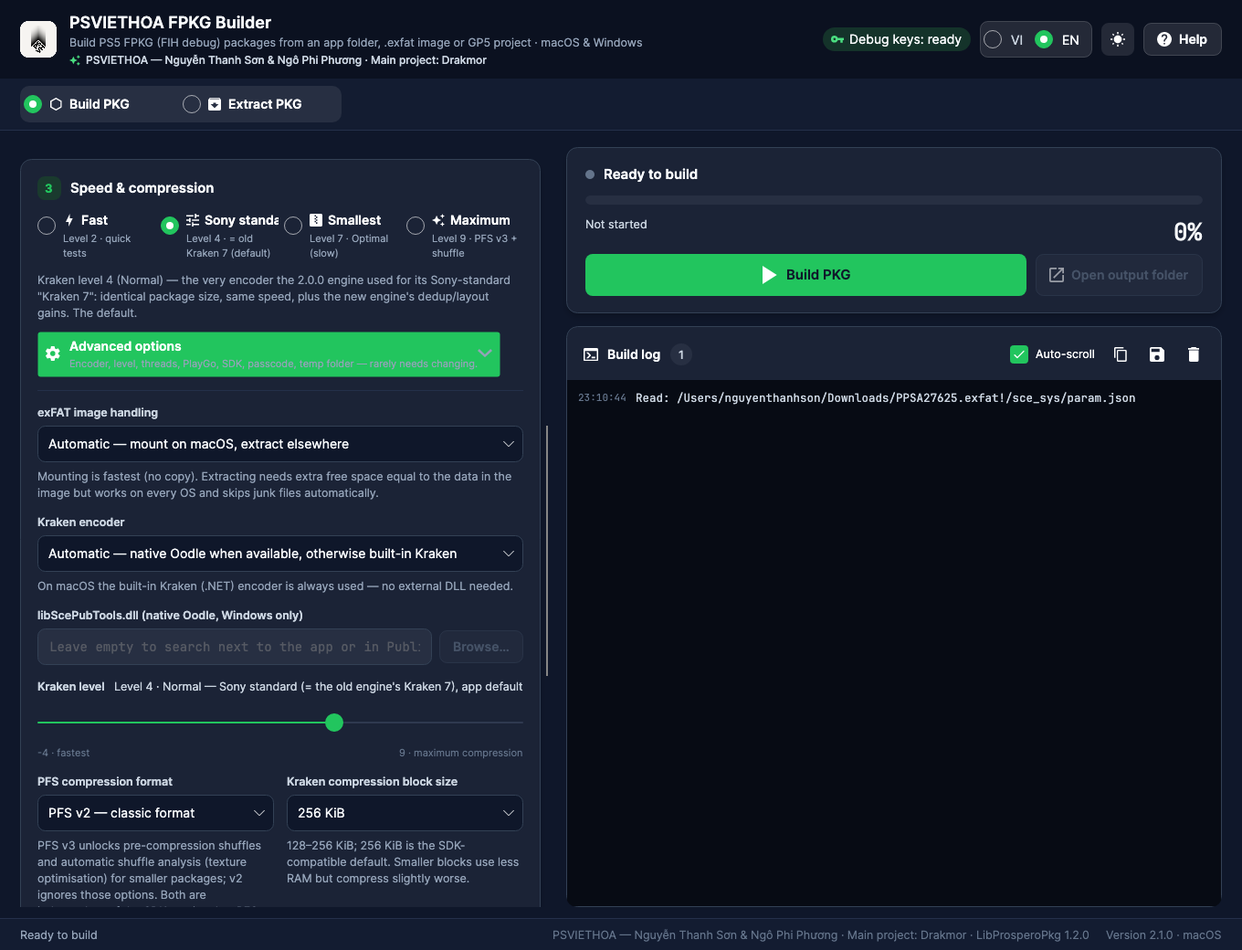
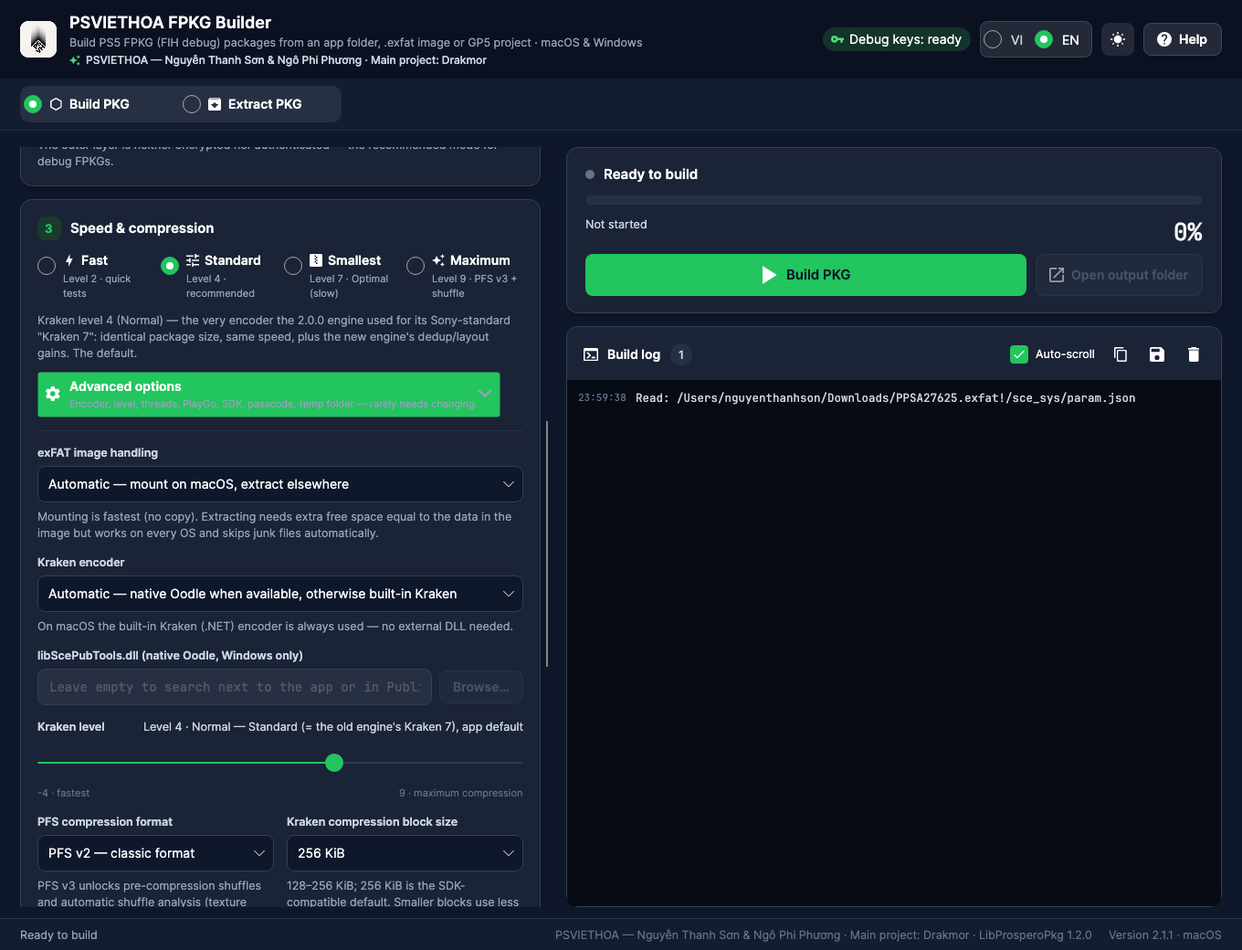
2.1.1: Standard preset naming, Finder-safe "Open output folder", output folder follows the opened package
- Default preset is now "Standard" ("Level 4 · recommended") in the UI, help, CLI help and docs
- Open output folder / open with external app use the OS command first (open / explorer / xdg-open) — fixes the button doing nothing on macOS
- Extract mode: a restored output folder that was the previous package's "<name>-extract" suggestion is replaced when another package is opened

Changed region(s): [[0.0309, 0.1538, 0.4324, 0.9538], [0.4632, 0.9846, 0.8647, 1.0], [0.8956, 0.9846, 0.9265, 1.0]]

diff --git a/src/PsViethoa.FpkgBuilder.App/Services/DialogService.cs b/src/PsViethoa.FpkgBuilder.App/Services/DialogService.cs
@@ -92,6 +92,14 @@ public sealed class DialogService
                 return false;
             }
 
+            // Trên macOS/Windows/Linux dùng lệnh hệ thống trước (Finder/Explorer/xdg-open) — ILauncher của Avalonia
+            // không mở được thư mục trên macOS trong một số trường hợp; đường dẫn được truyền qua ArgumentList nên
+            // khoảng trắng hay ký tự Unicode đều an toàn.
+            if (TryOpenWithShell(path))
+            {
+                return true;
+            }
+
             var launcher = TopLevel.GetTopLevel(_owner)?.Launcher;
             if (launcher != null)
             {
@@ -105,6 +113,48 @@ public sealed class DialogService
         return false;
     }
 
+    /// <summary>Mở tệp/thư mục/URL bằng lệnh của hệ điều hành: open (macOS), explorer.exe (Windows), xdg-open (Linux).</summary>
+    private static bool TryOpenWithShell(string target)
+    {
+        try
+        {
+            var start = new System.Diagnostics.ProcessStartInfo { UseShellExecute = false, CreateNoWindow = true };
+            if (OperatingSystem.IsMacOS())
+            {
+                start.FileName = "/usr/bin/open";
+                start.ArgumentList.Add(target);
+            }
+            else if (OperatingSystem.IsWindows())
+            {
+                start.FileName = "explorer.exe";
+                start.ArgumentList.Add(target);
+            }
+            else
+            {
+                start.FileName = "xdg-open";
+                start.ArgumentList.Add(target);
+            }
+
+            using var process = System.Diagnostics.Process.Start(start);
+            if (process == null)
+            {
+                return false;
+            }
+
+            // "open"/xdg-open thoát ngay; explorer.exe có thể trả mã khác 0 dù đã mở — chỉ coi là thất bại khi không chạy được.
+            if (!OperatingSystem.IsWindows() && process.WaitForExit(3000) && process.ExitCode != 0)
+            {
+                return false;
+            }
+
+            return true;
+        }
+        catch (Exception)
+        {
+            return false;
+        }
+    }
+
     /// <summary>Mở một tệp bằng ứng dụng mặc định của hệ điều hành.</summary>
     public async Task<bool> OpenFileAsync(string path)
     {
@@ -113,6 +163,11 @@ public sealed class DialogService
             if (!File.Exists(path))
             {
                 return false;
+            }
+
+            if (TryOpenWithShell(path))
+            {
+                return true;
             }
 
             var launcher = TopLevel.GetTopLevel(_owner)?.Launcher;
@@ -133,10 +188,12 @@ public sealed class DialogService
         try
         {
             var launcher = TopLevel.GetTopLevel(_owner)?.Launcher;
-            if (launcher != null)
+            if (launcher != null && await launcher.LaunchUriAsync(new Uri(uri)))
             {
-                return await launcher.LaunchUriAsync(new Uri(uri));
+                return true;
             }
+
+            return TryOpenWithShell(uri);
         }
         catch (Exception)
         {

diff --git a/src/PsViethoa.FpkgBuilder.App/ViewModels/ExtractionViewModel.cs b/src/PsViethoa.FpkgBuilder.App/ViewModels/ExtractionViewModel.cs
@@ -119,6 +119,13 @@ public sealed partial class ExtractionViewModel : ObservableObject
 
         _packagePath = settings.ExtractPackagePath ?? string.Empty;
         _outputFolder = settings.ExtractOutputFolder ?? string.Empty;
+        // Thư mục xuất khôi phục từ phiên trước mà chính là gợi ý "<gói>-extract" của gói cũ thì vẫn coi là gợi ý tự động,
+        // để khi mở gói khác nó được thay bằng gợi ý mới (không dính thư mục của gói trước).
+        if (!string.IsNullOrWhiteSpace(settings.ExtractPackagePath) && _outputFolder.Length > 0 &&
+            string.Equals(_outputFolder.Trim(), DefaultOutputFor(settings.ExtractPackagePath), StringComparison.OrdinalIgnoreCase))
+        {
+            _suggestedOutput = _outputFolder.Trim();
+        }
         Loc.Current.LanguageChanged += (_, _) => OnLanguageChanged();
         AppDomain.CurrentDomain.ProcessExit += (_, _) => Shutdown();
         ShowEmpty();
@@ -591,15 +598,28 @@ public sealed partial class ExtractionViewModel : ObservableObject
         }
     }
 
+    /// <summary>Gợi ý thư mục xuất mặc định cho một gói: "&lt;tên gói&gt;-extract" cạnh tệp .pkg (rỗng nếu không xác định được).</summary>
+    private static string DefaultOutputFor(string packagePath)
+    {
+        try
+        {
+            var directory = Path.GetDirectoryName(packagePath);
+            return string.IsNullOrEmpty(directory) ? string.Empty : Path.Combine(directory, Path.GetFileNameWithoutExtension(packagePath) + "-extract");
+        }
+        catch (Exception)
+        {
+            return string.Empty;
+        }
+    }
+
     private void SuggestOutputFolder(string packagePath)
     {
-        var directory = Path.GetDirectoryName(packagePath);
-        if (string.IsNullOrEmpty(directory))
+        var suggestion = DefaultOutputFor(packagePath);
+        if (suggestion.Length == 0)
         {
             return;
         }
 
-        var suggestion = Path.Combine(directory, Path.GetFileNameWithoutExtension(packagePath) + "-extract");
         var current = OutputFolder.Trim();
         if (current.Length == 0 || string.Equals(current, _suggestedOutput, StringComparison.OrdinalIgnoreCase))
         {

diff --git a/docs/README.vi.md b/docs/README.vi.md
@@ -43,7 +43,7 @@ Công cụ tạo FPKG cho PS5 hiện có (`LibProsperoPkg.Gui`) là ứng dụng
 
 - **Engine LibProsperoPkg được cập nhật** — đọc / nén / ghi gối đầu nhau với ít bản sao trung gian hơn, khử trùng lặp khối và bộ đệm nén dùng trong lượt tạo gói, Kraken tích hợp được cải thiện (nhất là mức 8–9), tự chuyển sang Kraken tích hợp khi không có Oodle, sửa lỗi xử lý tệp và hủy giữa chừng, và gói đã có được giữ nguyên nếu lần tạo lại thất bại.
 - **Chọn PFS v2 / v3**, **kích thước khối nén Kraken** tuỳ chỉnh (128–256 KiB), **mẫu shuffle trước nén** và **tự phân tích chọn shuffle tốt nhất** (tối ưu texture của PFS v3 bằng cách chọn hoán vị — rất chậm, chỉ phát huy đầy đủ ở Kraken mức 9), **tối ưu bố cục vật lý** tuỳ chọn. Gói PFS v3 cần **firmware PS5 7.00 trở lên**; ứng dụng sẽ cảnh báo về điều này.
-- **Preset được ánh xạ lại theo bộ nén mới**: mặc định giờ là **Chuẩn Sony** = Kraken 4, chính là bộ nén mà engine 2.0.0 dùng cho "Kraken 7" (cùng kích thước, cùng tốc độ, cộng thêm lợi ích từ khử trùng lặp khối / tối ưu bố cục); **Nhỏ nhất** = Kraken 7 *Optimal* là chế độ nén sâu mới (nhỏ hơn ~3 %, chậm gấp 5–6 lần); preset **Tối đa** mới (Kraken 9 + PFS v3 + phân tích shuffle).
+- **Preset được ánh xạ lại theo bộ nén mới**: mặc định giờ là **Tiêu chuẩn** = Kraken 4, chính là bộ nén mà engine 2.0.0 dùng cho "Kraken 7" (cùng kích thước, cùng tốc độ, cộng thêm lợi ích từ khử trùng lặp khối / tối ưu bố cục); **Nhỏ nhất** = Kraken 7 *Optimal* là chế độ nén sâu mới (nhỏ hơn ~3 %, chậm gấp 5–6 lần); preset **Tối đa** mới (Kraken 9 + PFS v3 + phân tích shuffle).
 - Hiển thị **thông lượng** thực tế trong bảng tạo gói, tiến trình mượt hơn với các tệp nhiều GB, ước tính thời gian còn lại được tinh chỉnh lại.
 - CLI: `--pfs`, `--block-size`, `--shuffle`, `--shuffle-analysis`, `--shuffle-prediction-level`, `--skip-pfs-input-check`, `--no-layout-optimization`, `--source-mode`, `--project`, `--preset sony|standard`; lệnh mới `pkg-info`, `pkg-list`, `pkg-extract`.
 - **Giải nén gói có sẵn** — chế độ **Giải nén gói** mới (thanh Tạo gói | Giải nén gói ngay dưới header): mở một tệp `.pkg` (hoặc kéo–thả vào cửa sổ) để xem header FIH / CNT, mọi trường `param.json`, icon và toàn bộ danh sách tệp của ảnh trong PPR‑PFS; tích chọn tệp hoặc thư mục rồi giải nén chúng (hoặc cả gói), hay xuất các entry `sce_sys`. Gói PLAINTEXT_NOAUTH được đọc thẳng từ `.pkg` theo từng khối 4 MiB mà không dựng lại ảnh; gói Native (AES‑XTS) được giải mã ra thư mục tạm trước. CLI: `pkg-info`, `pkg-list`, `pkg-extract`.
@@ -59,7 +59,7 @@ Xem [CHANGELOG.md](../CHANGELOG.md) để biết chi tiết.
 | **Ngôn ngữ** | Tiếng Việt / English, chuyển ngay trên header, lựa chọn được ghi nhớ. CLI nhận `--lang vi\|en` hoặc biến môi trường `FPKG_LANG`. |
 | **Tạo gói** | Ảnh FIH debug, PLAINTEXT_NOAUTH hoặc Native AES‑XTS, APP / Homebrew / DLC, PlayGo tự động (1–64 khối), ghi đè SDK (1–11), passcode, bản dựng xác định (deterministic). |
 | **Nén** | **Bộ nén Kraken tích hợp** (thuần .NET, chạy trên mọi hệ điều hành, đa luồng) hoặc **Oodle gốc** qua `libScePubTools.dll` (Windows, tự chuyển về Kraken tích hợp khi không có). **PFS v2** (mặc định, tương thích rộng nhất) hoặc **PFS v3** (mẫu shuffle trước nén, tự phân tích shuffle cho từng khối), kích thước khối Kraken 128–256 KiB, tối ưu bố cục vật lý. |
-| **Tốc độ** | Preset **Nhanh · Chuẩn Sony · Nhỏ nhất · Tối đa**. **Chuẩn Sony** (mặc định) = Kraken mức 4, chính là bộ nén mà engine 2.0.0 dùng cho "Kraken 7": cùng kích thước, cùng tốc độ. **Nhỏ nhất** = Kraken 7 *Optimal* — chế độ nén sâu mới, nhỏ hơn khoảng 3 % nhưng chậm gấp 5–6 lần. **Tối đa** = Kraken 9 + PFS v3 + phân tích shuffle. Tuỳ chỉnh mức nén `-4…9`, số luồng, và chế độ không nén để test nhanh. |
+| **Tốc độ** | Preset **Nhanh · Tiêu chuẩn · Nhỏ nhất · Tối đa**. **Tiêu chuẩn** (mặc định) = Kraken mức 4, chính là bộ nén mà engine 2.0.0 dùng cho "Kraken 7": cùng kích thước, cùng tốc độ. **Nhỏ nhất** = Kraken 7 *Optimal* — chế độ nén sâu mới, nhỏ hơn khoảng 3 % nhưng chậm gấp 5–6 lần. **Tối đa** = Kraken 9 + PFS v3 + phân tích shuffle. Tuỳ chỉnh mức nén `-4…9`, số luồng, và chế độ không nén để test nhanh. |
 | **Trước khi tạo gói** | Đọc metadata + icon, quét dung lượng song song, **kiểm tra dung lượng trống** trên ổ tạm / ổ xuất, và **phát hiện & dọn tệp rác hệ điều hành**. |
 | **Trong khi tạo gói** | Thanh tiến trình tổng thể theo trọng số giai đoạn kèm **thời gian còn lại (ETA)** và **thông lượng** thực tế, tiến trình tính theo byte ngay bên trong các tệp nhiều GB, nhật ký ảo hoá 20.000 dòng, hủy an toàn, và **chống máy ngủ** (`caffeinate` / `SetThreadExecutionState`). |
 | **Sau khi tạo gói** | Kiểm tra cấu trúc FIH / PFS ngoài, SHA‑256 tuỳ chọn, bảng kết quả, sao chép / lưu nhật ký, mở thư mục kết quả. |
@@ -79,7 +79,7 @@ Mỗi gói nén đều kèm sẵn công cụ dòng lệnh `fpkg-cli`.
 
 1. Chuẩn bị thư mục ứng dụng PS5 đã giải nén (có thư mục `sce_sys` và `eboot.bin`), **hoặc** trỏ tới một ảnh đĩa `.exfat`.
 2. Ở **bước 1**, nhấn **Chọn…** / **Ảnh .exfat**, hoặc kéo–thả thư mục / ảnh vào cửa sổ. Content ID, tên, phiên bản, dung lượng và tệp rác được nhận diện tự động.
-3. Chọn preset tốc độ ở **bước 3** (Chuẩn Sony là mặc định và tương đương "Kraken 7" của engine cũ; Nhỏ nhất = mức 7 Optimal, chậm) hoặc mở phần tuỳ chọn nâng cao.
+3. Chọn preset tốc độ ở **bước 3** (Tiêu chuẩn là mặc định và tương đương "Kraken 7" của engine cũ; Nhỏ nhất = mức 7 Optimal, chậm) hoặc mở phần tuỳ chọn nâng cao.
 4. Nhấn **Tạo gói PKG** (`Ctrl/⌘+B` hoặc `F5`). Theo dõi tiến trình, thời gian còn lại và nhật ký; khi xong, cấu trúc gói được kiểm tra tự động.
 
 ## Dòng lệnh
@@ -115,15 +115,15 @@ Mã thoát: `0` thành công · `1` tham số sai · `2` tạo gói thất bại
 
 | Bài đo | Cấu hình | Thời gian | Gói |
 |---|---|---|---|
-| 400 MB dữ liệu tổng hợp | Nhanh (Kraken 2) / **Chuẩn Sony (4, mặc định)** | 6.8 giây / 7.5 giây | 254.3 MB / 254.2 MB |
+| 400 MB dữ liệu tổng hợp | Nhanh (Kraken 2) / **Tiêu chuẩn (4, mặc định)** | 6.8 giây / 7.5 giây | 254.3 MB / 254.2 MB |
 | 400 MB dữ liệu tổng hợp | Nhỏ nhất (Kraken 7) | 16.4 giây | 250.3 MB |
 | 400 MB dữ liệu tổng hợp | Tối đa (Kraken 9 + PFS v3 + phân tích shuffle) | 47.6 giây | 249.8 MB |
 | Game thật 813 MB (`PPSA06438`, ảnh .exfat được gắn) | Nhỏ nhất / Nhanh | 23.4 giây / 4.9 giây | 257.2 MB / 262.8 MB |
 | **Game thật 21.3 GB** (`PPSA27625`, ảnh .exfat được gắn) | Nhanh (Kraken 2) | 1 phút 59 giây | 8.86 GiB |
-| **Game thật 21.3 GB** | **Chuẩn Sony (Kraken 4, mặc định)** | **2 phút 13 giây** | **8.86 GiB** |
+| **Game thật 21.3 GB** | **Tiêu chuẩn (Kraken 4, mặc định)** | **2 phút 13 giây** | **8.86 GiB** |
 | **Game thật 21.3 GB** | Nhỏ nhất (Kraken 7 Optimal) | 12 phút 49 giây | 8.54 GiB |
 
-Để so sánh, bản LibProsperoPkg đi kèm 2.0.0 tạo gói cùng game 21.3 GB này trong 3 phút 40 giây, ra gói 9.03 GiB. Đo song song trên cùng bộ dữ liệu 400 MB, engine 2.0.0 cho ra gói **giống hệt nhau** ở mức 4 và mức 7 (254,212,194 byte) — "mức 7" của nó thực chất là bộ nén Normal — còn engine 2.1.0 ở mức 4 tái tạo đúng kết quả đó (254,211,794 byte) với cùng tốc độ. Vì vậy **Chuẩn Sony** (mặc định) cho bạn kích thước "Kraken 7" cũ với tốc độ cũ, và với game 21 GB còn nhanh hơn và nhỏ hơn trước (2 phút 13 giây, 8.86 GiB). **Nhỏ nhất** là chế độ *Optimal* thực sự mới: giảm thêm 3.5 % (8.54 GiB) đổi lấy thời gian tạo gói lâu gấp 5–6 lần trên dữ liệu game vốn đã được nén sẵn. Mức 4–6 cho ra kết quả giống hệt nhau; từ mức 7 trở lên chuyển sang bộ phân tích (parser) optimal.
+Để so sánh, bản LibProsperoPkg đi kèm 2.0.0 tạo gói cùng game 21.3 GB này trong 3 phút 40 giây, ra gói 9.03 GiB. Đo song song trên cùng bộ dữ liệu 400 MB, engine 2.0.0 cho ra gói **giống hệt nhau** ở mức 4 và mức 7 (254,212,194 byte) — "mức 7" của nó thực chất là bộ nén Normal — còn engine 2.1.0 ở mức 4 tái tạo đúng kết quả đó (254,211,794 byte) với cùng tốc độ. Vì vậy **Tiêu chuẩn** (mặc định) cho bạn kích thước "Kraken 7" cũ với tốc độ cũ, và với game 21 GB còn nhanh hơn và nhỏ hơn trước (2 phút 13 giây, 8.86 GiB). **Nhỏ nhất** là chế độ *Optimal* thực sự mới: giảm thêm 3.5 % (8.54 GiB) đổi lấy thời gian tạo gói lâu gấp 5–6 lần trên dữ liệu game vốn đã được nén sẵn. Mức 4–6 cho ra kết quả giống hệt nhau; từ mức 7 trở lên chuyển sang bộ phân tích (parser) optimal.
 
 ## Build từ mã nguồn
 

diff --git a/README.md b/README.md
@@ -43,7 +43,7 @@ Existing FPKG tooling for PS5 (`LibProsperoPkg.Gui`) is **Windows‑only WPF**. 
 
 - **Updated LibProsperoPkg engine** — overlapping reads / compression / writes with fewer intermediate copies, block deduplication and an in‑build compression cache, improved built‑in Kraken (especially levels 8–9), automatic fallback to built‑in Kraken when Oodle is unavailable, file‑handling and cancellation fixes, and existing packages are preserved if a rebuild fails.
 - **PFS v2 / v3 selection**, configurable **Kraken block size** (128–256 KiB), **pre‑compression shuffle patterns** and **automatic shuffle analysis** (PFS v3 texture optimisation through permutation selection — very slow, fully effective only at Kraken level 9), optional **physical layout optimisation**. PFS v3 packages need **PS5 firmware 7.00 or newer**; the app warns about it.
-- **Presets re‑mapped to the new encoder**: the default is now **Sony standard** = Kraken 4, the very encoder the 2.0.0 engine used for its "Kraken 7" (same size, same speed, plus dedup/layout gains); **Smallest** = Kraken 7 *Optimal* is a new deeper mode (~3 % smaller, 5–6× slower); new **Maximum** preset (Kraken 9 + PFS v3 + shuffle analysis).
+- **Presets re‑mapped to the new encoder**: the default is now **Standard** = Kraken 4, the very encoder the 2.0.0 engine used for its "Kraken 7" (same size, same speed, plus dedup/layout gains); **Smallest** = Kraken 7 *Optimal* is a new deeper mode (~3 % smaller, 5–6× slower); new **Maximum** preset (Kraken 9 + PFS v3 + shuffle analysis).
 - Live **throughput** in the build panel, smoother progress on multi‑GB files, re‑tuned ETA.
 - CLI: `--pfs`, `--block-size`, `--shuffle`, `--shuffle-analysis`, `--shuffle-prediction-level`, `--skip-pfs-input-check`, `--no-layout-optimization`, `--source-mode`, `--project`, `--preset sony|standard`; new `pkg-info`, `pkg-list`, `pkg-extract` commands.
 - **Extract packages** — new **Extract PKG** mode (Build | Extract bar under the header): open a `.pkg` (or drop it onto the window) to see the FIH / CNT headers, every `param.json` field, the icon and the full file list of the inner PPR‑PFS image; tick files or folders and extract them (or the whole package), or export the `sce_sys` entries. PLAINTEXT_NOAUTH packages are read straight from the `.pkg` in 4 MiB chunks without rebuilding the image; Native (AES‑XTS) packages are decrypted to the temp folder first. CLI: `pkg-info`, `pkg-list`, `pkg-extract`.
@@ -59,7 +59,7 @@ See [CHANGELOG.md](CHANGELOG.md) for details.
 | **Languages** | Vietnamese / English, switch instantly in the header, choice is remembered. CLI takes `--lang vi\|en` or the `FPKG_LANG` variable. |
 | **Packaging** | FIH debug image, PLAINTEXT_NOAUTH or Native AES‑XTS, APP / Homebrew / DLC, automatic PlayGo (1–64 chunks), SDK override (1–11), passcode, deterministic builds. |
 | **Compression** | Built‑in **managed Kraken encoder** (runs everywhere, multi‑threaded) or **native Oodle** via `libScePubTools.dll` (Windows, automatic fallback to built‑in Kraken). **PFS v2** (default, broadest compatibility) or **PFS v3** (pre‑compression shuffle patterns, automatic per‑block shuffle analysis), Kraken block size 128–256 KiB, physical layout optimisation. |
-| **Speed** | Presets **Fast · Sony standard · Smallest · Maximum**. **Sony standard** (default) = Kraken level 4, the very encoder the 2.0.0 engine used for its "Kraken 7": same size, same speed. **Smallest** = Kraken 7 *Optimal* — a new deep-compression mode, about 3 % smaller but 5–6× slower. **Maximum** = Kraken 9 + PFS v3 + shuffle analysis. Custom level `-4…9`, thread count, and an uncompressed mode for quick tests. |
+| **Speed** | Presets **Fast · Standard · Smallest · Maximum**. **Standard** (default) = Kraken level 4, the very encoder the 2.0.0 engine used for its "Kraken 7": same size, same speed. **Smallest** = Kraken 7 *Optimal* — a new deep-compression mode, about 3 % smaller but 5–6× slower. **Maximum** = Kraken 9 + PFS v3 + shuffle analysis. Custom level `-4…9`, thread count, and an uncompressed mode for quick tests. |
 | **Before building** | Reads metadata + icon, scans size in parallel, **checks free space** on the temp/output volumes, and **detects & cleans OS junk files**. |
 | **While building** | Weighted overall progress bar with **ETA** and live **throughput**, byte‑weighted progress inside multi‑GB files, virtualized 20k‑line log, safe cancel, and **sleep prevention** (`caffeinate` / `SetThreadExecutionState`). |
 | **After building** | Verifies the FIH / outer‑PFS structure, optional SHA‑256, result panel, copy/save the log, open the output folder. |
@@ -79,7 +79,7 @@ Each archive also contains the `fpkg-cli` command‑line tool.
 
 1. Prepare an extracted PS5 app folder (with a `sce_sys` folder and `eboot.bin`), **or** point at a `.exfat` disk image.
 2. In **step 1**, click **Browse…** / **.exfat image**, or drop the folder/image onto the window. Content ID, title, version, size, and junk files are detected automatically.
-3. Pick a speed preset in **step 3** (Sony standard is the default and equals the old engine's "Kraken 7"; Smallest = level 7 Optimal, slow) or open the advanced options.
+3. Pick a speed preset in **step 3** (Standard is the default and equals the old engine's "Kraken 7"; Smallest = level 7 Optimal, slow) or open the advanced options.
 4. Click **Build PKG** (`Ctrl/⌘+B` or `F5`). Watch the progress, ETA, and log; the structure is verified automatically when it finishes.
 
 ## Command line
@@ -88,7 +88,7 @@ Each archive also contains the `fpkg-cli` command‑line tool.
 fpkg-cli info --lang en
 fpkg-cli inspect "/path/PPSA12345"                 # folder
 fpkg-cli inspect "/path/PPSA12345.exfat"           # exFAT image — read directly, no mount
-fpkg-cli build --source "/path/PPSA12345.exfat" --output "/path/out"           # default: Sony standard (level 4), exfat auto
+fpkg-cli build --source "/path/PPSA12345.exfat" --output "/path/out"           # default: Standard (level 4), exfat auto
 fpkg-cli build --source "/path/PPSA12345.exfat" --output "/path/out" --exfat extract
 fpkg-cli build --source "/path/PPSA12345" --output "/path/out" --preset fast --clean-junk
 fpkg-cli build --source "/path/PPSA12345" --output "/path/out" --preset maximum       # Kraken 9 + PFS v3 + shuffle analysis
@@ -115,15 +115,15 @@ Measured on an Apple‑Silicon Mac (15 logical cores), built‑in Kraken, LibPro
 
 | Test | Config | Time | Package |
 |---|---|---|---|
-| 400 MB synthetic | Fast (Kraken 2) / **Sony standard (4, default)** | 6.8 s / 7.5 s | 254.3 MB / 254.2 MB |
+| 400 MB synthetic | Fast (Kraken 2) / **Standard (4, default)** | 6.8 s / 7.5 s | 254.3 MB / 254.2 MB |
 | 400 MB synthetic | Smallest (Kraken 7) | 16.4 s | 250.3 MB |
 | 400 MB synthetic | Maximum (Kraken 9 + PFS v3 + shuffle analysis) | 47.6 s | 249.8 MB |
 | 813 MB real game (`PPSA06438`, mounted .exfat) | Smallest / Fast | 23.4 s / 4.9 s | 257.2 MB / 262.8 MB |
 | **21.3 GB real game** (`PPSA27625`, mounted .exfat) | Fast (Kraken 2) | 1 min 59 s | 8.86 GiB |
-| **21.3 GB real game** | **Sony standard (Kraken 4, default)** | **2 min 13 s** | **8.86 GiB** |
+| **21.3 GB real game** | **Standard (Kraken 4, default)** | **2 min 13 s** | **8.86 GiB** |
 | **21.3 GB real game** | Smallest (Kraken 7 Optimal) | 12 min 49 s | 8.54 GiB |
 
-For comparison, the LibProsperoPkg build shipped with 2.0.0 built the same 21.3 GB game in 3 min 40 s to a 9.03 GiB package. Measured side by side on the same 400 MB set, the 2.0.0 engine produced **identical** packages at levels 4 and 7 (254,212,194 bytes) — its "level 7" was the Normal encoder — and the 2.1.0 engine at level 4 reproduces that result (254,211,794 bytes) at the same speed. So **Sony standard** (the default) gives you the old "Kraken 7" size at the old speed, and on the 21 GB game it is even faster and smaller than before (2 min 13 s, 8.86 GiB). **Smallest** is a genuinely new *Optimal* mode: another 3.5 % (8.54 GiB) for a 5–6× longer build on already‑compressed game data. Levels 4–6 produce identical output; level 7 and up switch to the optimal parser.
+For comparison, the LibProsperoPkg build shipped with 2.0.0 built the same 21.3 GB game in 3 min 40 s to a 9.03 GiB package. Measured side by side on the same 400 MB set, the 2.0.0 engine produced **identical** packages at levels 4 and 7 (254,212,194 bytes) — its "level 7" was the Normal encoder — and the 2.1.0 engine at level 4 reproduces that result (254,211,794 bytes) at the same speed. So **Standard** (the default) gives you the old "Kraken 7" size at the old speed, and on the 21 GB game it is even faster and smaller than before (2 min 13 s, 8.86 GiB). **Smallest** is a genuinely new *Optimal* mode: another 3.5 % (8.54 GiB) for a 5–6× longer build on already‑compressed game data. Levels 4–6 produce identical output; level 7 and up switch to the optimal parser.
 
 ## Build from source
 

diff --git a/CHANGELOG.md b/CHANGELOG.md
@@ -5,6 +5,9 @@
 - **Extracted app trees are now in Sony layout.** The "original app tree" option merges param.json, icon0.png, pic0.png and the playgo files from the CNT into `sce_sys/`, so the output folder can be used directly as a source to build an FPKG again (CLI: `pkg-extract` does the same; `--no-sce-sys` skips it, `--cnt` still exports the raw CNT tables to `cnt/`).
 - Unhandled exceptions on the UI thread are logged to `error.log` and shown in the build log instead of terminating the app; unobserved task exceptions are logged.
 - Verified on a 36 GB / 166,707-file package (ASTRO BOT): info 0.16 s, listing 3.8 s, extraction ~200 MB/s.
+- The default preset is now simply called **Standard** ("Level 4 · recommended"); the explanation of its equivalence with the old Kraken 7 moved to the detail text.
+- "Open output folder" / "Open with external app" now use the OS command (Finder `open`, Explorer, `xdg-open`) first — fixes the button doing nothing on macOS.
+- The extract-mode output folder follows the newly opened package again when it was only the previous package's automatic "<name>-extract" suggestion.
 
 ## 2.1.0 — 2026-09-13
 
@@ -23,15 +26,15 @@ Updated to the latest **LibProsperoPkg** (from `fpkg-gui 0.6.2`) and exposed its
 | Library | Time | Package |
 |---|---|---|
 | LibProsperoPkg shipped with 2.0.0, "Kraken 7" (= Normal encoder) | 3 min 40 s | 9.03 GiB |
-| LibProsperoPkg shipped with 2.1.0, **Sony standard (Kraken 4, default)** | **2 min 13 s** | **8.86 GiB** (−1.9 %) |
+| LibProsperoPkg shipped with 2.1.0, **Standard (Kraken 4, default)** | **2 min 13 s** | **8.86 GiB** (−1.9 %) |
 | LibProsperoPkg shipped with 2.1.0, Smallest (Kraken 7 Optimal) | 12 min 49 s | 8.54 GiB (−5.5 %) |
 
-Side by side on the same 400 MB set the 2.0.0 engine produced identical packages at levels 4 and 7 (its "level 7" was the Normal encoder) and the 2.1.0 engine at level 4 reproduces that result at the same speed, so **Sony standard** keeps the old size and speed while **Smallest** is a genuinely new, slower Optimal mode.
+Side by side on the same 400 MB set the 2.0.0 engine produced identical packages at levels 4 and 7 (its "level 7" was the Normal encoder) and the 2.1.0 engine at level 4 reproduces that result at the same speed, so **Standard** keeps the old size and speed while **Smallest** is a genuinely new, slower Optimal mode.
 
 ### App / CLI
 - New advanced options: **PFS compression format (v2 / v3)**, **Kraken block size (128–256 KiB)**, **pre-compression shuffle pattern**, **automatic shuffle analysis**, **skip PFS input check** (expert), **physical layout optimisation**.
-- **Presets re-mapped to the new encoder.** The 2.0.0 engine used the same Normal encoder for levels 4–7 (identical output at level 4 and 7); in 2.1.0 level 4 reproduces that result at the same speed while level 7 is a new, ~5–6× slower *Optimal* mode. The default preset is therefore **Sony standard = Kraken 4** (the old "Kraken 7" size and speed, plus dedup/layout gains; CLI id `balanced`, aliases `sony` / `standard`); **Smallest = Kraken 7 Optimal** (~3 % smaller, 5–6× slower) stays available.
-- New **Maximum** preset (Kraken 9 + PFS v3 + shuffle analysis) next to Fast / Sony standard / Smallest. Per the library author: the PFS v3 shuffle mechanism optimises texture compression, is very time-consuming and only fully effective at level 9, and PFS v3 packages need PS5 firmware 7.00 or newer — the app shows these warnings in the advanced options and the build log.
+- **Presets re-mapped to the new encoder.** The 2.0.0 engine used the same Normal encoder for levels 4–7 (identical output at level 4 and 7); in 2.1.0 level 4 reproduces that result at the same speed while level 7 is a new, ~5–6× slower *Optimal* mode. The default preset is therefore **Standard = Kraken 4** (the old "Kraken 7" size and speed, plus dedup/layout gains; CLI id `balanced`, aliases `sony` / `standard`); **Smallest = Kraken 7 Optimal** (~3 % smaller, 5–6× slower) stays available.
+- New **Maximum** preset (Kraken 9 + PFS v3 + shuffle analysis) next to Fast / Standard / Smallest. Per the library author: the PFS v3 shuffle mechanism optimises texture compression, is very time-consuming and only fully effective at level 9, and PFS v3 packages need PS5 firmware 7.00 or newer — the app shows these warnings in the advanced options and the build log.
 - Build panel shows the live **throughput** (MiB/s) next to the ETA; progress model covers the new planning and layout phases.
 - Smoother progress on large games: the inner-compression phase is now estimated from the library’s per-file lines (byte-weighted), so the bar moves every few seconds instead of once per multi-GB file; phase weights re-tuned from a 21 GB real-game build.
 - New `PSVIETHOA_SCROLL=<pixels>` dev hook for documentation screenshots.
